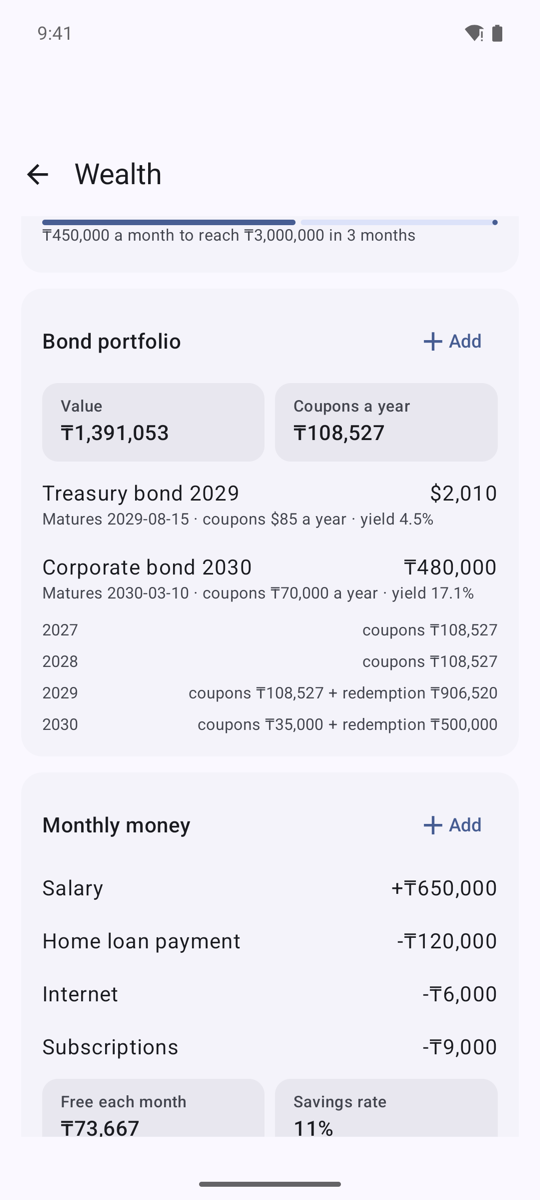
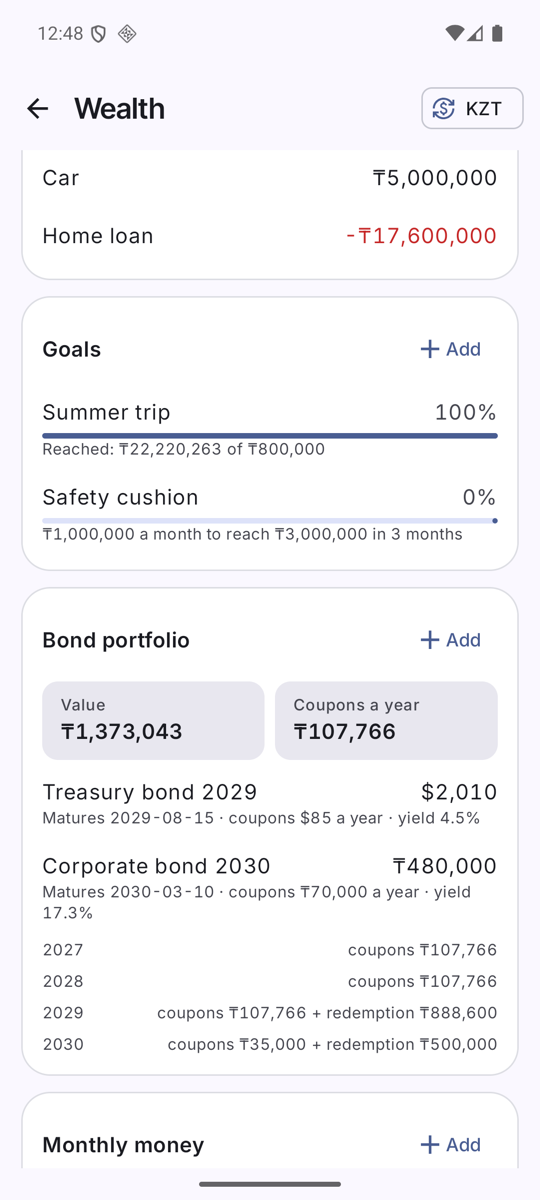
docs: retake wealth screenshots, add Appearance and Animations

diff --git a/README.md b/README.md
@@ -95,6 +95,8 @@ Your data lives in a local database on the phone; the optional Google Sheet is a
 <img src="docs/screenshots/calc.png" width="19%" alt="Calculator">
 <img src="docs/screenshots/charts.png" width="19%" alt="General chart">
 <img src="docs/screenshots/more.png" width="19%" alt="More">
+<img src="docs/screenshots/more-appearance.png" width="19%" alt="Appearance settings">
+<img src="docs/screenshots/more-animations.png" width="19%" alt="Animation switches">
 </p>
 
 ## Quick start (user manual)

diff --git a/docs/wiki/Settings.md b/docs/wiki/Settings.md
@@ -2,6 +2,8 @@
 
 <img src="../screenshots/more.png" width="240" alt="More"> <img src="../screenshots/more-data.png" width="240" alt="More, data and sync">
 
+<img src="../screenshots/more-appearance.png" width="240" alt="More, Appearance"> <img src="../screenshots/more-animations.png" width="240" alt="More, Animations">
+
 | Section | Setting | What it does |
 |---|---|---|
 | Wealth | Wealth, Compound interest | See [Wealth and compound interest](Wealth-and-Compound-Interest.md) |
